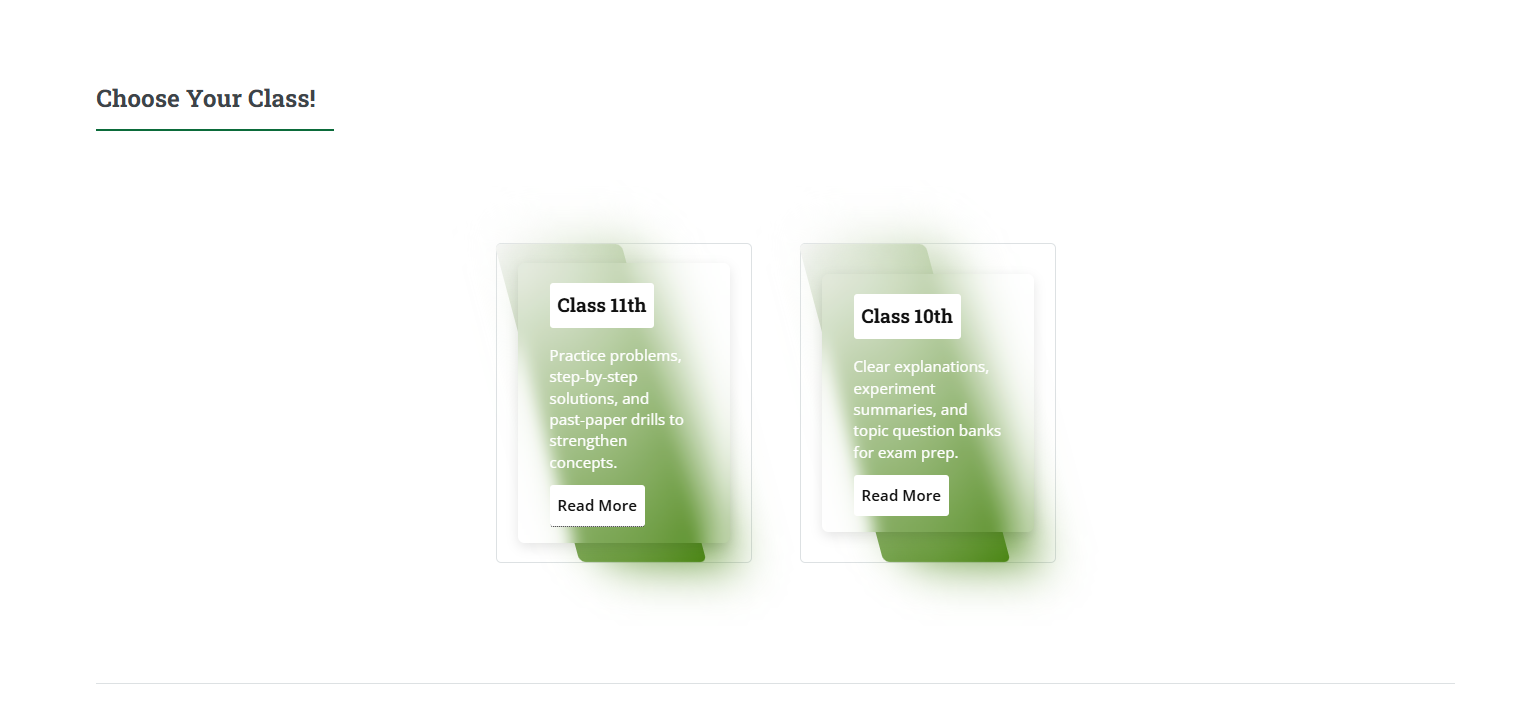
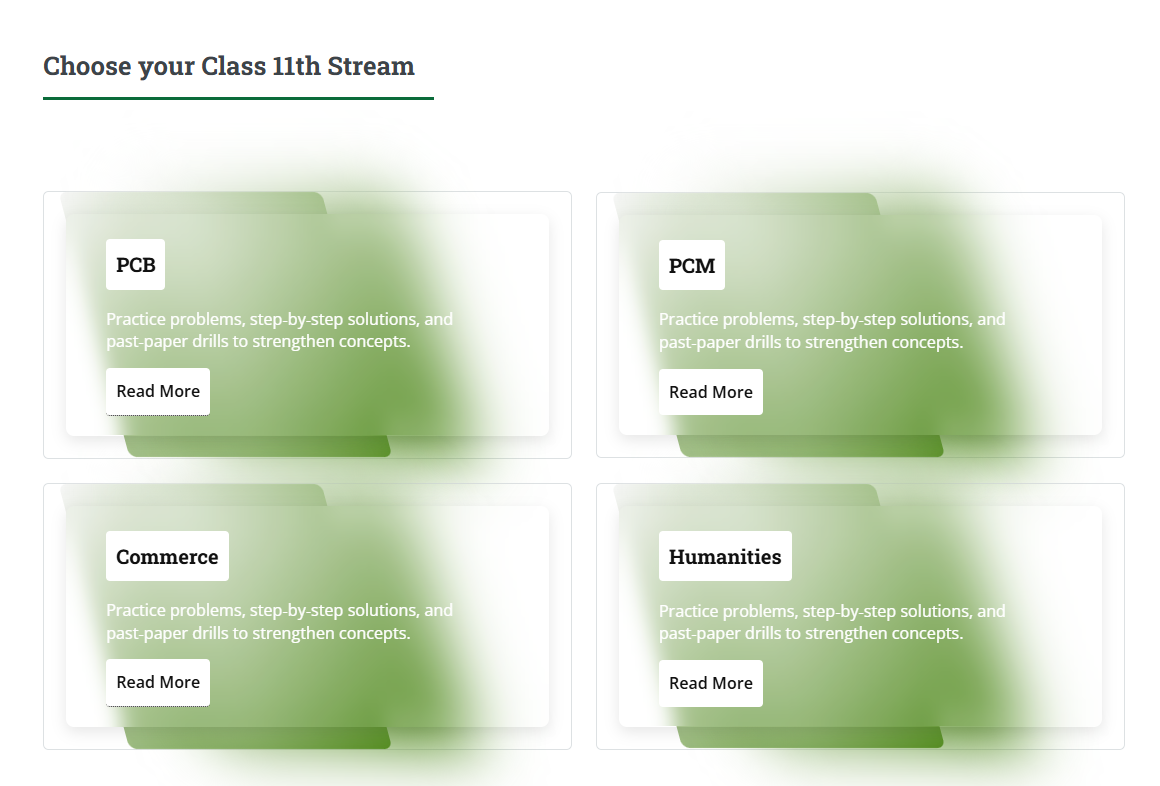
1.2

diff --git a/README.md b/README.md
@@ -84,84 +84,70 @@ The companion `<noscript>` block belongs immediately after the opening `<body>` 
 
 The main page content is nested inside `#wrapper`, `#main`, and `.inner`. The banner is the first section. Add further sections—such as class links, feedback, or recruitment—after the banner and before the closing tags for `.inner` and `#main`.
 
-The example below shows the banner content from the landing page:
-
 ```html
-<!-- Wrapper -->
 <div id="wrapper">
-  <!-- Main -->
-  <div id="main">
-    <div class="inner">
-      <!-- Header -->
-      <header id="header"></header>
 
-      <!-- Banner -->
-      <section id="banner">
-        <div class="content">
-          <header>
-            <h1>Welcome to Notebook Work Library</h1>
-            <h2>by Mohd Hifzaan Khan</h2>
-            <p>
-              This website was originally designed for Class 10th students in the
-              2025-26 academic session. It is currently being updated to serve
-              Class 11th students and the new Class 10th cohort. The platform
-              provides comprehensive question banks, school-conducted papers,
-              and previous year questions aligned with CBSE curriculum standards.
-              The website will be continuously updated with the latest CBSE
-              question banks and examination papers as they are released. The
-              current notebook materials are from the 2025-26 session; however,
-              updates with the latest resources will be implemented promptly.
-              We encourage you to visit regularly for the most recent educational
-              materials and updates.
-            </p>
-          </header>
+				<!-- Main -->
+					<div id="main">
+						<div class="inner">
 
-          <ul class="actions">
-            <li>
-              <a href="https://workhaul.my.canva.site/mhk" class="button big">
-                Go to my old Website
-              </a>
-            </li>
-          </ul>
-        </div>
+							<!-- Header -->
+								<header id="header">
+								
+										
+								</header>
 
-        <span class="image object">
-          <img src="images/1.jpg" alt="" />
-        </span>
-      </section>
+							<!-- Banner -->
+								<section id="banner">
+									<div class="content">
+										<header>
+											<h1>Welcome to Notebook Work Library</h1><br />
+											<h2>by Mohd Hifzaan Khan</h2>
+											<p>This website was originally designed for Class 10th students in the 2025-26 academic session. It is currently being updated to serve Class 11th students and the new Class 10th cohort. The platform provides comprehensive question banks, school-conducted papers, and previous year questions aligned with CBSE curriculum standards. The website will be continuously updated with the latest CBSE question banks and examination papers as they are released. The current notebook materials are from the 2025-26 session; however, updates with the latest resources will be implemented promptly. We encourage you to visit regularly for the most recent educational materials and updates.
+											</p>
+										</header>
+										
+										<ul class="actions">
+											
+											<li><a href="https://workhaul.my.canva.site/mhk" class="button big">Go to my old Website</a></li>
+										</ul>
+									</div>
+									
+									<span class="image object">
+										<img src="images/1.jpg" alt="" />
+									</span>
+								</section>
 
       <!-- Add other sections here, before .inner and #main are closed. -->
     </div>
   </div>
 </div>
 ```
-
+While modifiying the website don't mess with the above lines because they makes the structure and helps other sections also.
 The banner appears like this:
 
-![Screenshot of the landing page banner](Readme_images/image.png)
+![Screenshot of the landing page banner](Readme_images/Screenshot%202026-10-26%20212247.png)
 
 ### “Choose Your Class” section
 
-This section gives visitors class links using a heading and a set of cards. Add it after the banner, inside `.inner`, alongside the other page sections.
+This section gives visitors class links using a heading and a set of cards. Add it after the banner, inside `.inner`.
 
 ```html
 <section>
   <header class="major">
-    <h2>Choose Your Class!</h2>
+    <h2>Choose Your Class!</h2>                                                                                     ← You can change this heading
   </header>
 
   <div class="container">
     <div class="box">
-      <span></span>
       <div class="content">
-        <h3><a href="12th/12th Home.html">Class 12th</a></h3>
-        <p>Practice problems, step-by-step solutions, and past-paper drills to strengthen concepts.</p>
-        <a href="12th/12th Home.html" style="box-shadow: none;">Read More</a>
+        <h3><a href="12th/12th Home.html">Class 12th</a></h3>                                                       ← You can change this heading
+        <p>Practice problems, step-by-step solutions, and past-paper drills to strengthen concepts.</p>             ← You can change this paragraph
+        <a href="12th/12th Home.html" style="box-shadow: none;">Read More</a>                             ← You can change this text of this button and also where its linked to
       </div>
     </div>
 
     <div class="box">
-      <span></span>
       <div class="content">
         <h3><a href="11th/11th Home.html">Class 11th</a></h3>
         <p>Practice problems, step-by-step solutions, and past-paper drills to strengthen concepts.</p>
@@ -170,29 +156,153 @@ This section gives visitors class links using a heading and a set of cards. Add 
     </div>
 
     <div class="box">
-      <span></span>
       <div class="content">
         <h3><a href="10th/10thHome.html">Class 10th</a></h3>
         <p>Clear explanations, experiment summaries, and topic question banks for exam prep.</p>
-        <a href="10th/10thHome.html" style="border: none; box-shadow: none;">Read More</a>
+        <a href="10th/10thHome.html" style="box-shadow: none;">Read More</a>
       </div>
     </div>
 
     <div class="box">
-      <span></span>
       <div class="content">
         <h3><a href="9th/9thHome.html">Class 9th</a></h3>
         <p>Clear explanations, experiment summaries, and topic question banks for exam prep.</p>
-        <a href="9th/9thHome.html" style="border: none; box-shadow: none;">Read More</a>
+        <a href="9th/9thHome.html" style="box-shadow: none;">Read More</a>
       </div>
     </div>
   </div>
 </section>
 ```
 
-The section heading uses `<header class="major">`. The `.container` holds the cards, and each `.box` is one class card. To add another class, duplicate a `.box` and update its title, description, and both links.
+The section heading uses `<header class="major">`. The `.container` holds the cards, and each `.box` is one class card. To add another class, duplicate a complete `.box` and update its title, description, and both links. Before using the code given above make sure to remove the "you can change this or that" directions because if you not it will appear in the output.
 
-![Screenshot of the “Choose Your Class” section](Readme_images/image-1.png)
+![Screenshot of the “Choose Your Class” section](Readme_images/Screenshot%202026-10-26%20213207.png)
+
+### Subject cards
+
+Subject pages use the same card structure as the class section. The heading, destination filenames, and descriptions can change by class or stream.
+
+```html
+<section>
+  <header class="major">
+    <h2>Subjects</h2>                                                                                       ← You can change this heading
+  </header>
+
+  <div class="container stream-grid">
+    <div class="box">
+      <div class="content">
+        <h3><a href="Physics.html">Physics</a></h3>                                                         ← You can change this heading
+        <p>Practice problems, step-by-step solutions, and past-paper drills to strengthen concepts.</p>      ← You can change this paragrapgh
+        <a href="Physics.html" style="box-shadow: none;">Read More</a>                                    ← You can change this text of this button and also where its linked to
+      </div>
+    </div>
+
+    <div class="box">
+      <div class="content">
+        <h3><a href="Chemistry.html">Chemistry</a></h3>
+        <p>Practice problems, step-by-step solutions, and past-paper drills to strengthen concepts.</p>
+        <a href="Chemistry.html" style="box-shadow: none;">Read More</a>
+      </div>
+    </div>
+
+    <div class="box">
+      <div class="content">
+        <h3><a href="Biology.html">Biology</a></h3>
+        <p>Practice problems, step-by-step solutions, and past-paper drills to strengthen concepts.</p>
+        <a href="Biology.html" style="box-shadow: none;">Read More</a>
+      </div>
+    </div>
+  </div>
+</section>
+```
+
+Use one complete `.box` per subject. To add or remove a subject, duplicate or delete a complete card and update both links and the displayed text. Before using the code given above make sure to remove the "you can change this or that" directions because if you not it will appear in the output.
+
+![Screenshot of the subject card section](Readme_images/image.png)
+
+### Stream cards
+
+Stream pages use the `stream-grid` layout to present each stream as a card. Both links in a card should lead to the selected stream's page.
+
+```html
+<section>
+  <header class="major">
+    <h2>Choose Your Class 11 Stream</h2>                                                                         ← You can change this heading
+  </header>
+
+  <div class="container stream-grid">
+    <div class="box">
+      <div class="content">
+        <h3><a href="PCB.html">PCB</a></h3>
+        <p>Practice problems, step-by-step solutions, and past-paper drills to strengthen concepts.</p>           ← You can change this paragrapgh
+        <a href="PCB.html" style="box-shadow: none;">Read More</a>                                        ← You can change this text of this button and also where its linked to
+      </div>
+    </div>
+
+    <div class="box">
+      <div class="content">
+        <h3><a href="Commerce.html">Commerce</a></h3>
+        <p>Practice problems, step-by-step solutions, and past-paper drills to strengthen concepts.</p>
+        <a href="Commerce.html" style="box-shadow: none;">Read More</a>
+      </div>
+    </div>
+  </div>
+</section>
+```
+
+Keep the heading and destinations appropriate for the class or stream being presented. Some class pages add `stream-grid` styles in their own `<head>` to control the number of columns. Before using the code given above make sure to remove the "you can change this or that" directions because if you not it will appear in the output.
+
+![Screenshot of the stream card section](Readme_images/image-1.png)
+
+### Work and PYQ cards
+
+Work and previous-year question (PYQ) pages use the same card structure, but the links point to resource files instead of subject or stream pages.
+
+```html
+<section>
+  <header class="major">
+    <h2>Work</h2>                                                                         ← You can change this heading
+  </header>
+
+  <div class="container stream-grid">
+    <div class="box">
+      <div class="content">
+        <h3><a href="PDFs/English/Eng Recap.pdf">Recapitulation Sheet</a></h3>                                     ← You can change this heading
+        <p>Practice problems, step-by-step solutions, and past-paper drills to strengthen concepts.</p>           ← You can change this paragrapgh
+        <a href="PDFs/English/Eng Recap.pdf" style="box-shadow: none;">Read More</a>                     ← You can change this text of this button and also where its linked to
+      </div>
+    </div>
+
+    <div class="box">
+      <div class="content">
+        <h3><a href="PDFs/English/a photograph.pdf">A Photograph</a></h3>
+        <p>Practice problems, step-by-step solutions, and past-paper drills to strengthen concepts.</p>
+        <a href="PDFs/English/a photograph.pdf" style="box-shadow: none;">Read More</a>
+      </div>
+    </div>
+  </div>
+</section>
+```
+ Before using the code given above make sure to remove the "you can change this or that" directions because if you not it will appear in the output.
+To add or remove a resource:
+
+1. Duplicate or delete one complete `.box` card.
+2. Change the displayed title.
+3. Update both `href` values to the exact relative path of the resource.
+4. Keep filename and path case identical to the file on disk.
+
+The same framework applies to PYQ pages. Replace the example paths with the appropriate paper or marking-scheme paths inside `PYQ/`.
+
+![Screenshot of the work card section](Readme_images/image-2.png)
+
+### Card checklist
+
+- `h3 > a` is the visible card title and primary link.
+- The lower `Read More` link should point to the same destination.
+- The `href` path must match the file or page structure from the current folder.
+- Each `.box` must remain inside `.container` and the enclosing `<section>`.
+- Use an existing layout class such as `stream-grid` instead of adding duplicate card styles.
+- Test every link, especially links containing spaces or mixed capitalization.
 
 ## Integrations and deployment notes
 
